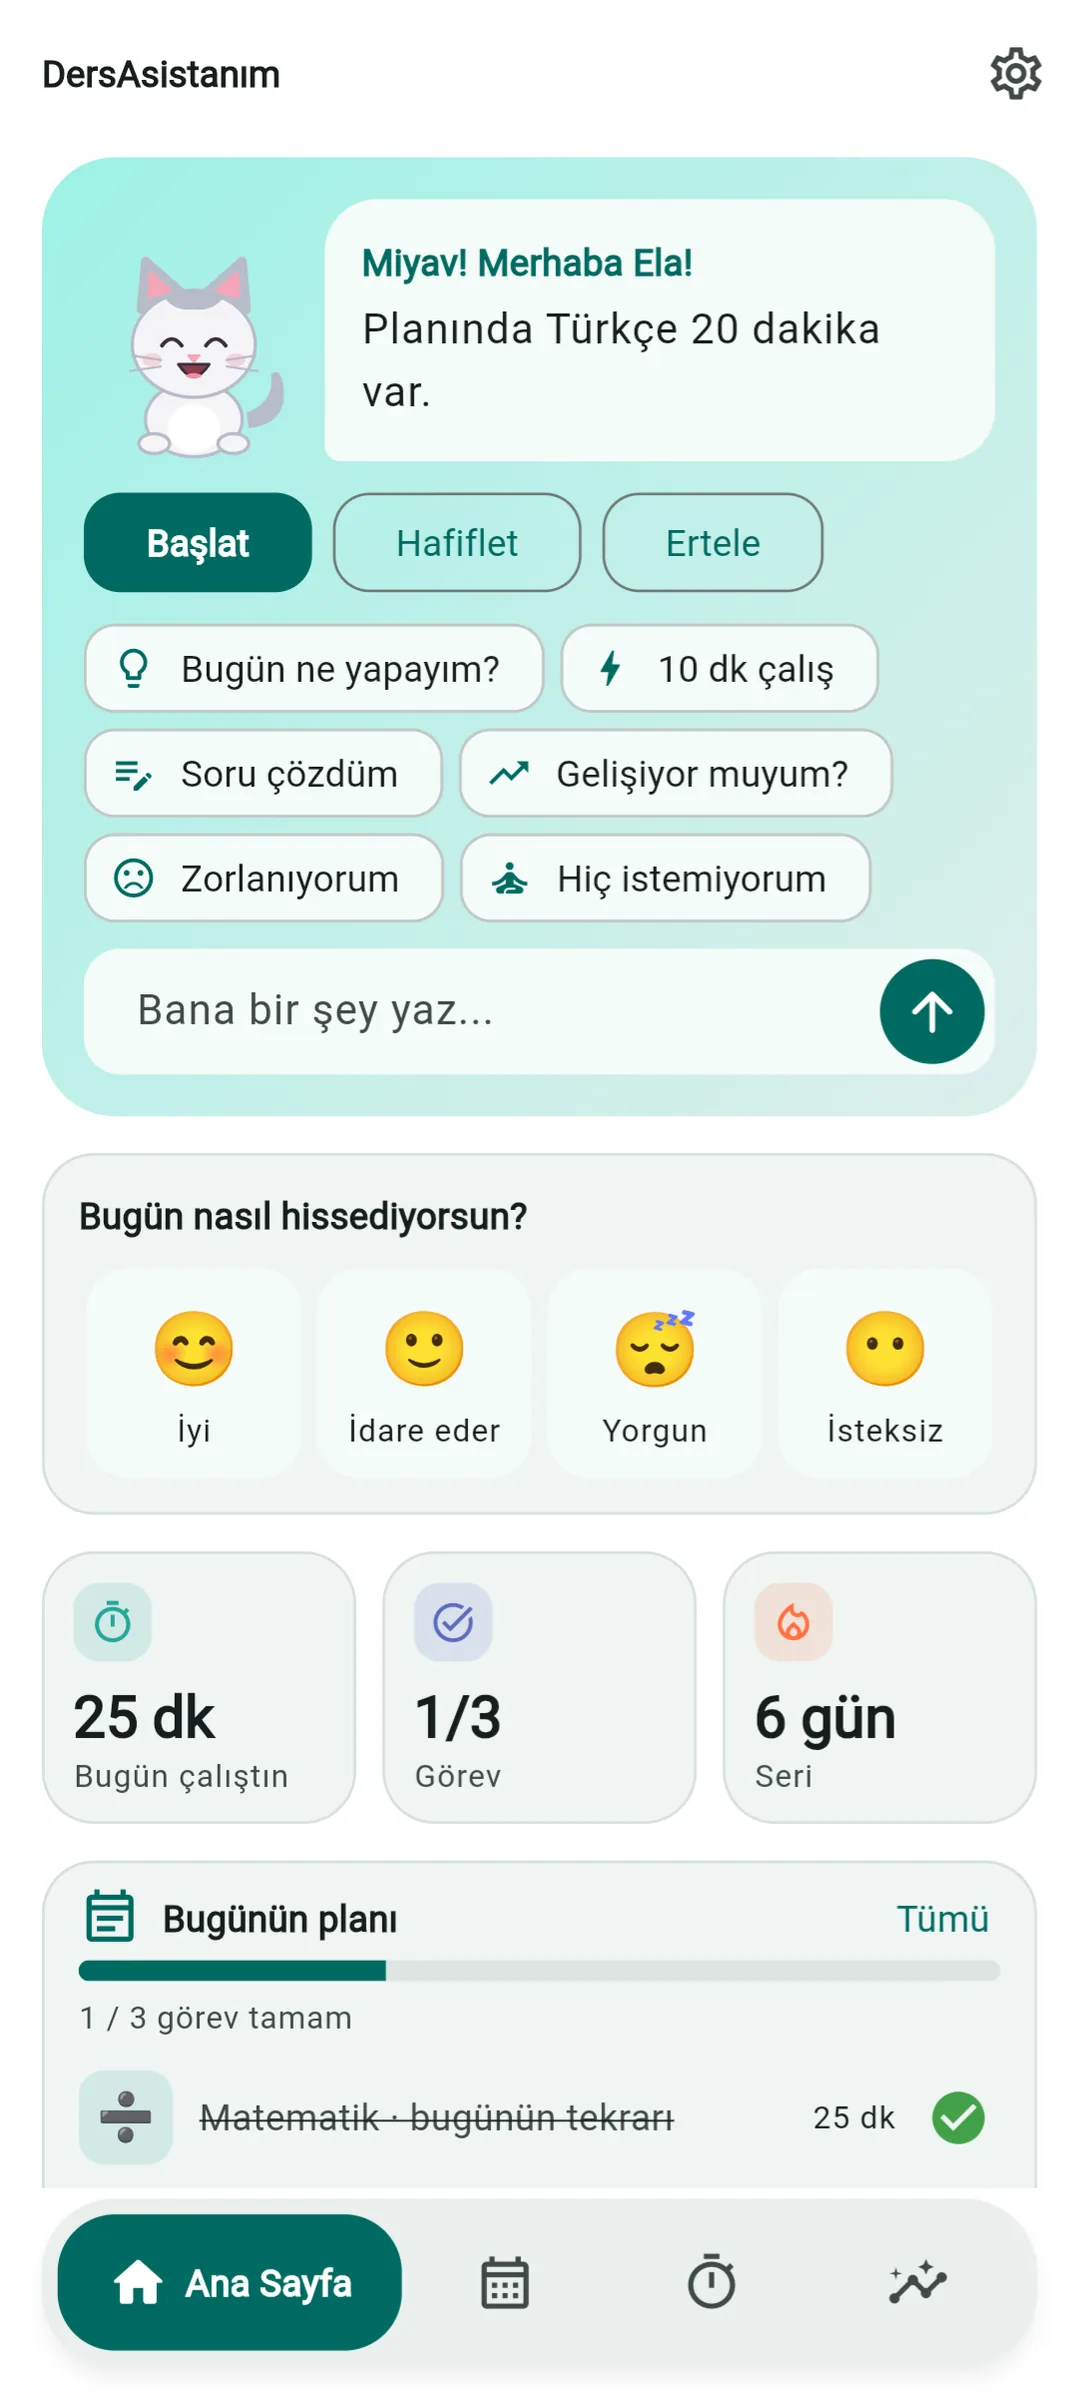
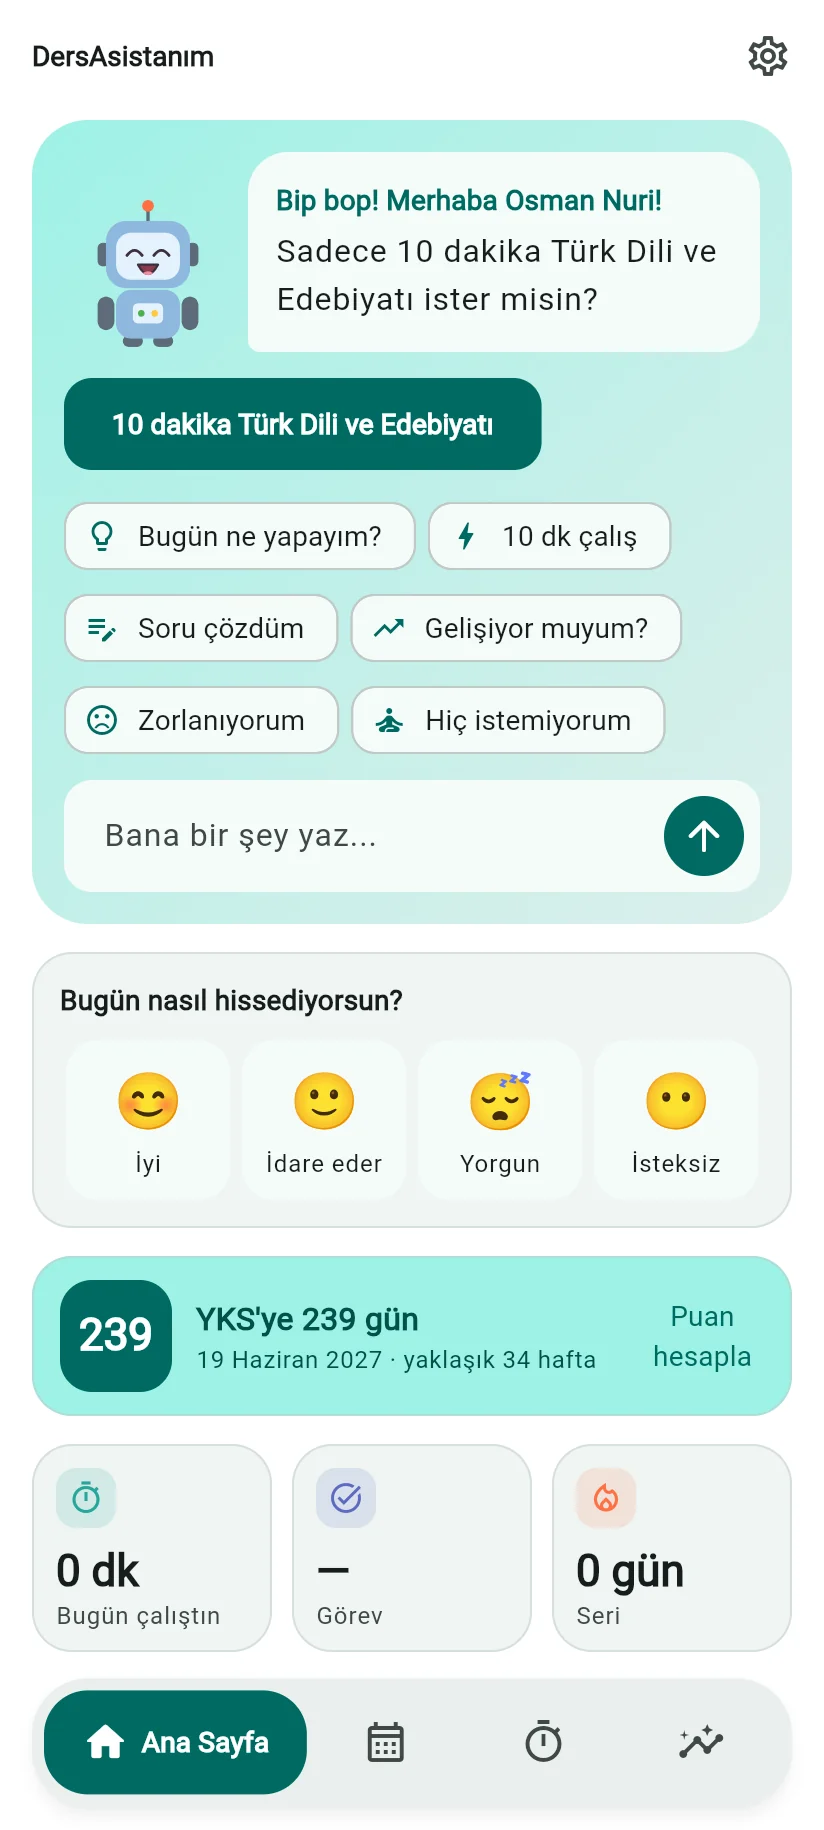
DersAsistanım görselleri yeni sürümden güncellendi
- Canlı uygulamadan yeni ekranlar: lise modunda ana sayfa (Robo, YKS
  sayacı), Derslerim, süresiz kronometre, hazır YKS programları, YKS puan
  hesaplayıcı, konu takibi, maskot/tema seçimi ve koyu Gece teması
- Kart görselleri: ana sayfa, hazır programlar, koyu tema
- Dolu veri gerektiren eski ekranlar (haftalık plan, gelişim, yanlış
  defteri, akıllı program, uygulama turu) korundu; kullanılmayan
  05-ders-programi kaldırıldı

diff --git a/javascript/index.js b/javascript/index.js
@@ -359,8 +359,8 @@ const projectData = {
             </p>
 
             <div class="image-row">
-                <img src="görseller/dersAsistanim/01-ana-sayfa.webp" alt="DersAsistanım ana sayfa">
-                <img src="görseller/dersAsistanim/02-ana-sayfa-plan.webp" alt="DersAsistanım bugünün planı ve seri">
+                <img src="görseller/dersAsistanim/01-ana-sayfa.webp" alt="DersAsistanım lise modunda ana sayfa ve YKS sayacı">
+                <img src="görseller/dersAsistanim/02-ana-sayfa-plan.webp" alt="DersAsistanım ortaokul modunda bugünün planı ve seri">
             </div>
 
             <h3>Problem</h3>
@@ -380,8 +380,8 @@ const projectData = {
 
             <div class="image-row">
                 <img src="görseller/dersAsistanim/04-derslerim.webp" alt="DersAsistanım Derslerim ve akıllı program">
-                <img src="görseller/dersAsistanim/05-ders-programi.webp" alt="DersAsistanım okul ders programı">
                 <img src="görseller/dersAsistanim/06-akilli-program.webp" alt="DersAsistanım akıllı program önizlemesi">
+                <img src="görseller/dersAsistanim/11-hazir-programlar.webp" alt="DersAsistanım hazır YKS programları">
             </div>
 
             <h3>Öne Çıkan Özellikler</h3>
@@ -402,8 +402,17 @@ const projectData = {
             <img src="görseller/dersAsistanim/10-uygulama-turu.webp" alt="DersAsistanım uygulama turu">
 
             <p><strong>Lise (YKS) modu:</strong> Sınıf, alan ve sınav tarihini soran kurulum; YKS geri sayımı, TYT/AYT puan hesaplayıcı, deneme sonuçları ve ders bazında konu takibi; 11 lise dersi ve 3 hazır lise programı. Öğretmen raporunda denemeler ve TYT gelişimi de görünür.</p>
+            <div class="image-row">
+                <img src="görseller/dersAsistanim/12-yks-puan.webp" alt="DersAsistanım YKS puan hesaplayıcı">
+                <img src="görseller/dersAsistanim/13-konu-takibi.webp" alt="DersAsistanım TYT ve AYT konu takibi">
+            </div>
 
             <p><strong>Kişiselleştirme:</strong> Kedi, köpek ve baykuşun yanına Robo, Rex, Kral ile liseliler için Zeynep ve Emir eklendi; her maskotun 5 ruh hali ve kendi cümleleri var. Ayarlar'dan 8 açık ve 2 koyu renk teması seçilebilir.</p>
+            <div class="image-row">
+                <img src="görseller/dersAsistanim/14-maskot-tema.webp" alt="DersAsistanım maskot ve tema seçimi">
+                <img src="görseller/dersAsistanim/16-koyu-ayarlar.webp" alt="DersAsistanım koyu temada ayarlar">
+                <img src="görseller/dersAsistanim/15-koyu-tema.webp" alt="DersAsistanım koyu temada ana sayfa">
+            </div>
 
             <p><strong>Yönetim paneli ve KVKK:</strong> <code>/admin/</code> altında kullanıcıları, öğretmen eklemeyi, askıya almayı ve işlem kayıtlarını yöneten ayrı bir panel. Kayıtta aydınlatma metni onayı ve "Hesabımı ve verilerimi sil" seçeneği; veritabanı erişimi satır düzeyi güvenlik (RLS) kurallarıyla sınırlı.</p>
 

diff --git a/index.html b/index.html
@@ -103,9 +103,9 @@
 
                     <article class="feature project-card reveal" onclick="openProject('DersAsistanim')" role="button" tabindex="0">
                         <div class="feature-media">
-                            <img src="görseller/dersAsistanim/01-ana-sayfa.webp" alt="DersAsistanım ana sayfa ve maskot asistan" loading="lazy" width="1080" height="2398">
-                            <img src="görseller/dersAsistanim/06-akilli-program.webp" alt="DersAsistanım akıllı program" loading="lazy" width="1080" height="2398">
-                            <img src="görseller/dersAsistanim/09-kronometre.webp" alt="DersAsistanım kronometre" loading="lazy" width="1080" height="2398">
+                            <img src="görseller/dersAsistanim/01-ana-sayfa.webp" alt="DersAsistanım ana sayfa, Robo maskotu ve YKS sayacı" loading="lazy" width="824" height="1830">
+                            <img src="görseller/dersAsistanim/11-hazir-programlar.webp" alt="DersAsistanım hazır YKS programları" loading="lazy" width="824" height="1830">
+                            <img src="görseller/dersAsistanim/15-koyu-tema.webp" alt="DersAsistanım koyu Gece teması" loading="lazy" width="824" height="1830">
                         </div>
                         <div class="feature-body">
                             <div class="meta"><span class="year">2026</span><span class="type">Mobil Uygulama · PWA</span></div>
